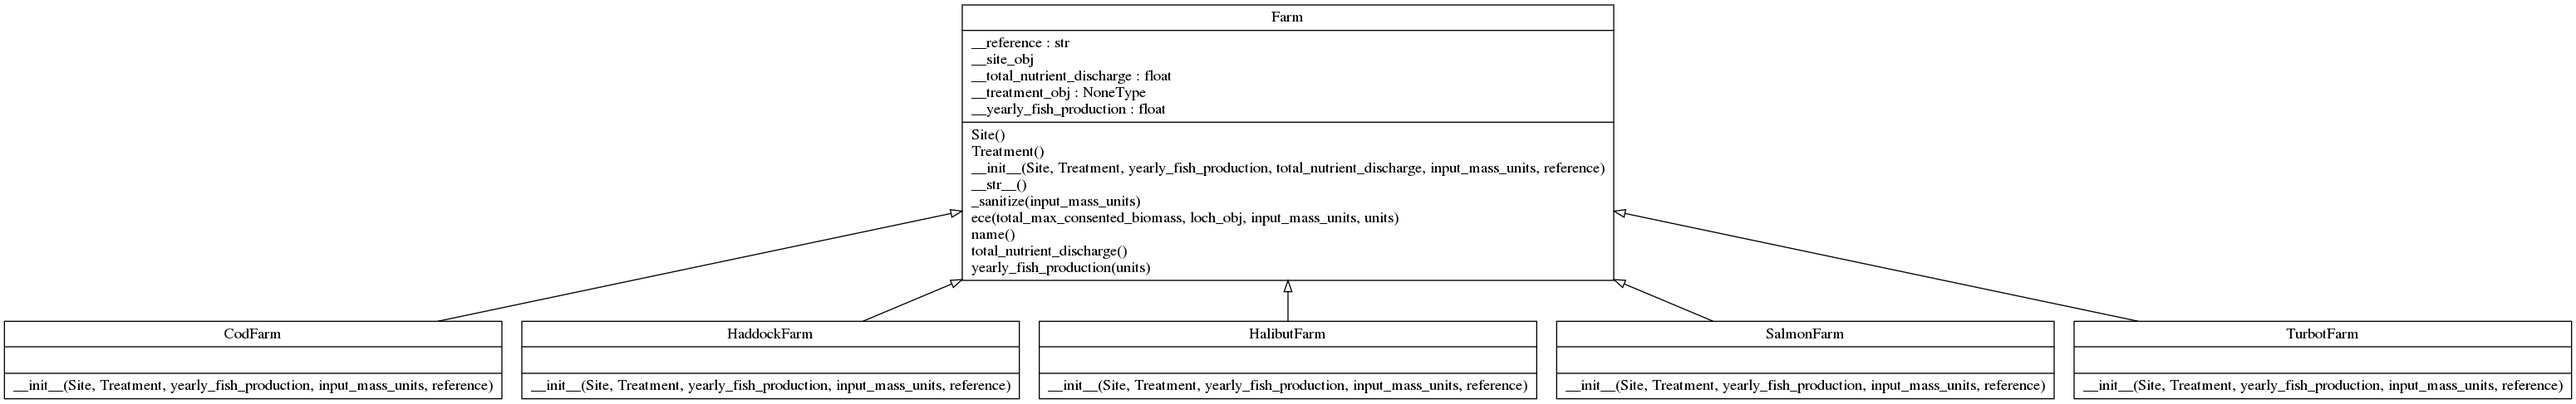
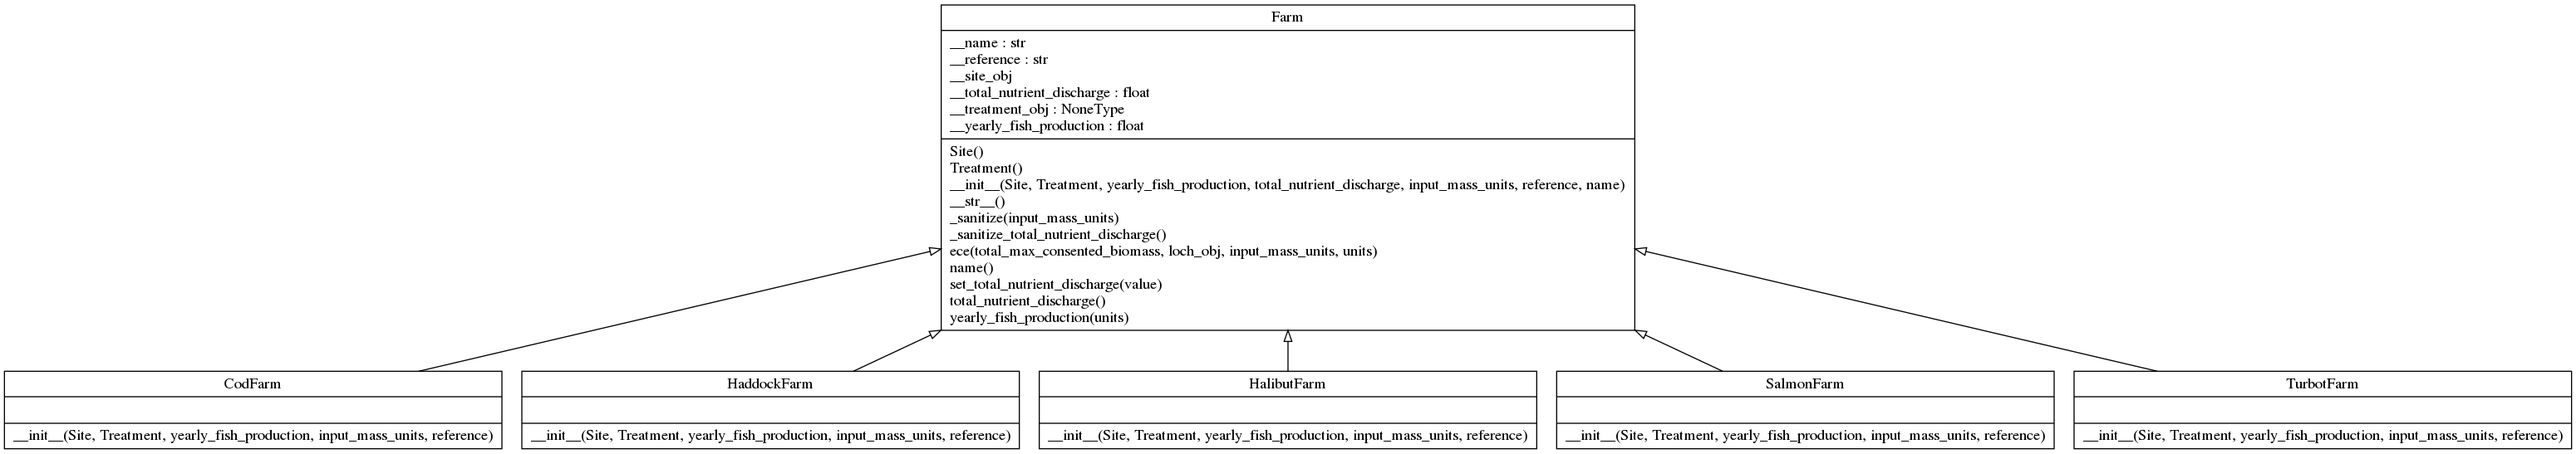
Farm: Function added to (re)set the nitrogen source

diff --git a/claws/farm.py b/claws/farm.py
@@ -63,7 +63,9 @@ def nutrient_enhancement_index(ECE):
 class Farm(object):
     def __init__(self, Site, Treatment=None, yearly_fish_production=0.0,
                  total_nutrient_discharge=0.0, input_mass_units='kg',
-                 reference=""):
+                 reference="", name=""):
+        # __name: string; Farm name. default is class name
+        self.__name = ' '.join(re.findall('([A-Z][a-z]+)', type(self).__name__))
         # __site_obj: Site object; Farm location
         self.__site_obj = Site
         # __treatment_obj: Treatment object; Treatment being applied at the
@@ -71,8 +73,8 @@ class Farm(object):
         self.__treatment_obj = Treatment
         # self.__yearly_fish_production: float; Yearly fish production (kg)
         self.__yearly_fish_production = yearly_fish_production
-        # Combined source of nitrogen from dissolved and particulate waste
-        # (units: kg of nitrogen per tonne of fish produced)
+        # Combined source of nitrogen from dissolved ammonia and particulate
+        # waste emissions (units: kg of nitrogen per tonne of fish produced)
         self.__total_nutrient_discharge = total_nutrient_discharge
         # __reference: string; Reference. default: empty string
         self.__reference = reference
@@ -100,23 +102,30 @@ class Farm(object):
     def total_nutrient_discharge(self):
         return self.__total_nutrient_discharge
         
+    def set_total_nutrient_discharge(self, value):
+        self.__total_nutrient_discharge = value
+        self._sanitize_total_nutrient_discharge()
+        
+    def _sanitize_total_nutrient_discharge(self):
+        assert(type(self.__total_nutrient_discharge) is float)
+        if self.__total_nutrient_discharge < 0.0:
+            raise InputError(self.__total_nutrient_discharge,
+                "Farm's total nutrient discharge should be a positive number")
+    
     def _sanitize(self, input_mass_units):
         assert(type(self.__yearly_fish_production) is float)
         if self.__yearly_fish_production < 0.0:
             raise InputError(self.__yearly_fish_production,
                 "Farm's yearly fish production should be a positive number")
                 
-        assert(type(self.__total_nutrient_discharge) is float)
-        if self.__total_nutrient_discharge < 0.0:
-            raise InputError(self.__total_nutrient_discharge,
-                "Farm's total nutrient discharge should be a positive number")
+        self._sanitize_total_nutrient_discharge()
         
         # Yearly fish production stored in kg
         self.__yearly_fish_production = convert_mass_to_prog_units(
             self.__yearly_fish_production, input_mass_units, self.name())
                 
     def name(self):
-        return ' '.join(re.findall('([A-Z][a-z]+)', type(self).__name__))
+        return self.__name
         
     def ece(self, total_max_consented_biomass, loch_obj,
             input_mass_units='tonne', units='umol/L'):

diff --git a/tests/test_ECE.py b/tests/test_ECE.py
@@ -17,7 +17,7 @@ from claws.treatments import *
 from claws.farm import nutrient_enhancement_index
 from claws.farms import *
 
-def print_biomass_info(biomass_tonne, header_string):
+def print_biomass_info(farm, loch, biomass_tonne, header_string):
     ece1 = farm.ece(biomass_tonne, loch, units='kg/m^3')
     ece2 = farm.ece(biomass_tonne, loch, units='ug/L')
     ece3 = farm.ece(biomass_tonne, loch)
@@ -45,12 +45,9 @@ if __name__ == "__main__":
     print(farm)
     
     existing_biomass_tonne = 500.
-    print_biomass_info(existing_biomass_tonne, "Existing biomass:")
+    print_biomass_info(farm, loch, existing_biomass_tonne, "Existing biomass:")
     
+    farm.set_total_nutrient_discharge(40.64)
     option1_biomass_tonne = 2000.
-    print_biomass_info(option1_biomass_tonne, "Released biomass - Option 1:")
-    
-    total_max_consented_biomass_tonne = existing_biomass_tonne + \
-        option1_biomass_tonne
-    print_biomass_info(total_max_consented_biomass_tonne,
-                       "Released biomass - Total:")
+    print_biomass_info(farm, loch, option1_biomass_tonne,
+                       "Released biomass - Option 1:")
